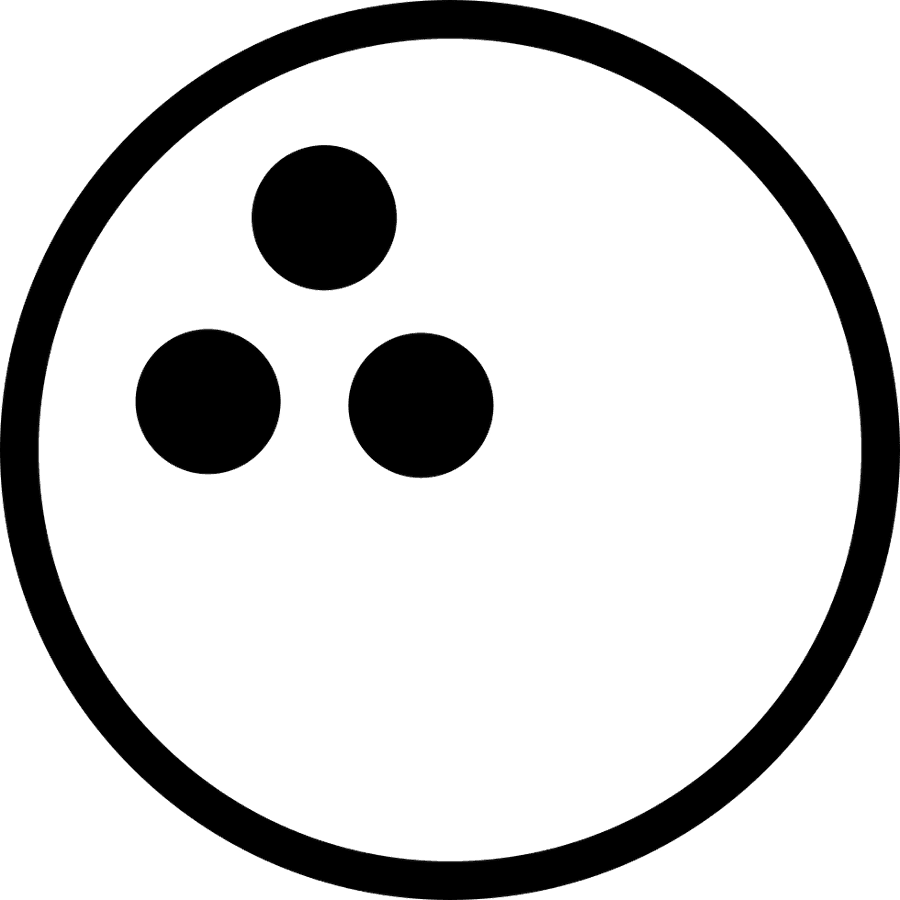
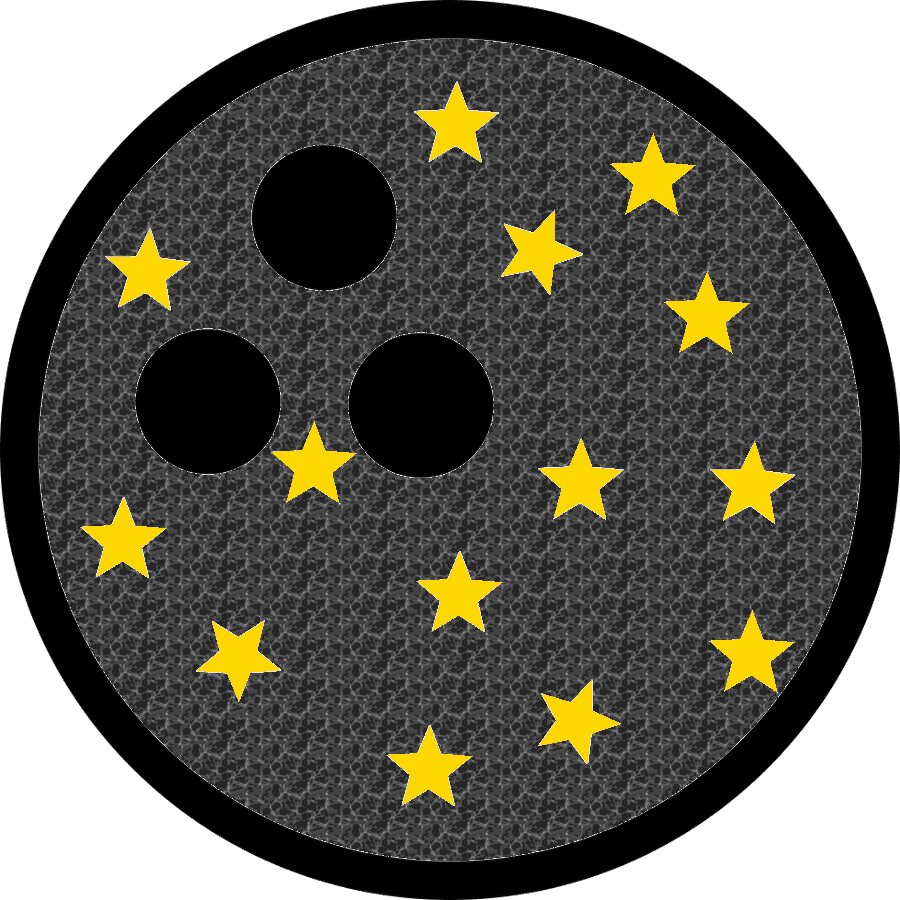
v0.4.0
added save game function and button to save game, changes are saved locally i think, also changed style of golden bowling ball

diff --git a/Anthony Clicker/script.js b/Anthony Clicker/script.js
@@ -1,5 +1,6 @@
 // defines variables 
 let startTime = Date.now();
+let timePlayed = 0; // in seconds
 
 let currentImageIndex = 0;
 let effectsMuted = false;
@@ -34,7 +35,7 @@ let bathroomMultiplier = 1;
 
 // updates ui of current values
 function update() {
-  document.getElementById('farts').innerHTML = "Farts: "+farts.toString();
+  document.getElementById('farts').innerHTML = "Farts: " + farts.toString();
   fps = (getProductionAmount("burrito") + getProductionAmount("toilet") + getProductionAmount("bathroom")) * globalProductionMultiplier;
   document.getElementById('fpc').innerHTML = "Farts per Click: " + fpc;
   document.getElementById('fps').innerHTML = "Farts per Second: " + fps;
@@ -42,15 +43,15 @@ function update() {
   document.getElementById('buyBurritoBtn').innerText = `Buy Burrito (${costOfBurrito} farts)`;  
   document.getElementById('buyToiletBtn').innerText = `Buy Toilet (${costOfToilets} farts)`;
   document.getElementById('buyBathroomBtn').innerText = `Buy Bathroom (${costOfBathroom} farts)`;
-  let currentTime = Date.now();
-  let elapsedTime = currentTime - startTime; // Elapsed time in milliseconds
-  let seconds = Math.floor(elapsedTime / 1000); // Convert to seconds
-  let minutes = Math.floor(seconds / 60); // Convert to minutes
-  let hours = Math.floor(minutes / 60); // Converts to hours
-  seconds = seconds % 60; // Remaining seconds
-  minutes = minutes % 60; // Remaining minutes
-  // Display the elapsed time in minutes and seconds
-  document.getElementById('timePlayed').innerHTML = `Time Wasted: ${hours}h ${minutes}m ${seconds}s`;
+
+  function formatTime(seconds) {
+    const hrs = Math.floor(seconds / 3600);
+    const mins = Math.floor((seconds % 3600) / 60);
+    const secs = seconds % 60;
+    return `${hrs}h ${mins}m ${secs}s`;
+  }
+  
+  document.getElementById('timePlayed').innerHTML = `Time Wasted: ${formatTime(timePlayed)}`;
   checkToiletUnlock();
   checkBathroomUnlock();
 }
@@ -239,7 +240,7 @@ function giveFartBonus() {
 }
 
 function scheduleGoldenBall() {
-  const delay = 180000 + Math.random() * 120000; // for 3 to 5 minutes should be 180000, 120000, atm made it shorter for testing
+  const delay = 180000 + Math.random() * 120000; // for 3 to 5 minutes should be 180000, 120000
   setTimeout(() => {
     spawnGoldenBall();
     scheduleGoldenBall(); // schedule next one after this
@@ -254,6 +255,7 @@ async function rec() {
   await new Promise(resolve => setTimeout(resolve, 1000));
   farts += fps;
   totalFarts += fps;
+  timePlayed += 1; // Increment time played every second
   update();
   requestAnimationFrame(rec);
 }
@@ -278,6 +280,7 @@ function checkBathroomUnlock() {
 rec(); // dont know what this does but it makes it update smoother
 function getBuildingCost(baseCost, amountOwned, multiplier = 1.1) { // Scales by 10%
   return Math.floor(baseCost * Math.pow(multiplier, amountOwned));
+  timePlayed += 1; // Increment time played every second
 }
 
 // increasing price gradually by 2%
@@ -296,13 +299,96 @@ function increasePrice(which) {
     return getBuildingCost(25000, bathroomsBought, 1.02)
   }
 }
+// time saving function for time played
+function formatTime(seconds) {
+  const hrs = Math.floor(seconds / 3600);
+  const mins = Math.floor((seconds % 3600) / 60);
+  const secs = seconds % 60;
+  return `${hrs}h ${mins}m ${secs}s`;
+}
+
+// checks to see if sounds are muted
+document.getElementById('muteButton').addEventListener('click', () => {
+  effectsMuted = !effectsMuted;
+  localStorage.setItem("effectsMuted", JSON.stringify(effectsMuted)); // Persist mute state
+  document.getElementById('muteButton').textContent = effectsMuted ? '🔇 Unmute Farts' : '🔊 Mute Farts';
+});
+
+// save game function, make sure to add variables to this list if you add more
+function saveGame() {
+  const saveData = {
+    effectsMuted,
+    timePlayed,
+    currentImageIndex,
+    farts,
+    totalFarts,
+    fpc,
+    fpcBought,
+    burritosBought,
+    toiletsBought,
+    bathroomsBought,
+    costOfFpc,
+    costOfBurrito,
+    costOfToilets,
+    costOfBathroom,
+    moreIngredients,
+    improvedSeats,
+    globalProductionMultiplier,
+    burritoMultiplier,
+    toiletMultiplier,
+    bathroomMultiplier
+  };
+  localStorage.setItem('fartGameSave', JSON.stringify(saveData));
+  const msg = document.getElementById('saveMessage');
+  msg.style.display = 'block';
+  setTimeout(() => msg.style.display = 'none', 2000); // hides after 2 seconds
+}
+
+function loadGame() {
+  const save = localStorage.getItem('fartGameSave');
+  if (!save) return;
+  const data = JSON.parse(save);
+
+  effectsMuted = data.effectsMuted ?? false;
+  document.getElementById('muteButton').textContent = effectsMuted ? '🔇 Unmute Farts' : '🔊 Mute Farts';
+  timePlayed = data.timePlayed ?? 0;
+  currentImageIndex = data.currentImageIndex ?? currentImageIndex;
+  document.getElementById('clickericon').src = imageSources[currentImageIndex];
+  farts = data.farts ?? farts;
+  totalFarts = data.totalFarts ?? totalFarts;
+  fpc = data.fpc ?? fpc;
+  fpcBought = data.fpcBought ?? fpcBought;
+  burritosBought = data.burritosBought ?? burritosBought;
+  toiletsBought = data.toiletsBought ?? toiletsBought;
+  bathroomsBought = data.bathroomsBought ?? bathroomsBought;
+  costOfFpc = data.costOfFpc ?? costOfFpc;
+  costOfBurrito = data.costOfBurrito ?? costOfBurrito;
+  costOfToilets = data.costOfToilets ?? costOfToilets;
+  costOfBathroom = data.costOfBathroom ?? costOfBathroom;
+  moreIngredients = data.moreIngredients ?? moreIngredients;
+  improvedSeats = data.improvedSeats ?? improvedSeats;
+  globalProductionMultiplier = data.globalProductionMultiplier ?? globalProductionMultiplier;
+  burritoMultiplier = data.burritoMultiplier ?? burritoMultiplier;
+  toiletMultiplier = data.toiletMultiplier ?? toiletMultiplier;
+  bathroomMultiplier = data.bathroomMultiplier ?? bathroomMultiplier;
+
+  update();
+}
 
 
 
 // Call update regularly
 setInterval(update, 1000); // Update every second
+setInterval(saveGame, 30000); // Auto-save every 30 sec
 // Event listeners
 window.addEventListener('DOMContentLoaded', () => {
   document.getElementById('goldenBall').addEventListener('click', activateGoldenBall);
   document.getElementById('clickericon').addEventListener('click', moreU);
+  document.getElementById('muteButton').addEventListener('click', () => {
+    effectsMuted = !effectsMuted;
+    document.getElementById('muteButton').textContent = effectsMuted ? '🔇 Unmute Farts' : '🔊 Mute Farts';
+  });
+  document.getElementById('saveButton').addEventListener('click', saveGame);
 });
+
+loadGame(); // Load save game on startup

diff --git a/Anthony Clicker/anthonyClicker.html b/Anthony Clicker/anthonyClicker.html
@@ -29,9 +29,13 @@
 			  <button class="styled hidden" id="upgradeBurritoBtn" onclick="buyBurritoUpgrade()">Bean Burritos (2500 farts)</button>
 			  <button class="styled hidden" id="upgradeToiletBtn" onclick="buyToiletUpgrade()">Improved Seats (250000 farts)</button>
 			</div>
-		  </div>
+		</div>
+		<button id="saveButton" class="styled"style="position: fixed; bottom: 20px; left: 20px; padding: 10px;">
+			Save Game
+		  </button>
 		<script src="script.js"></script>
 		<div id="bonusText" class="hidden"></div>
+		<div id="saveMessage" style="position: fixed; bottom: 80px; left: 10px; color: black; display: none;">Game Saved!</div>
 		<img src="Pictures/bowlingball.png" id="goldenBall" class="hidden" style="position:absolute; width:60px; height:60px; cursor:pointer;">
 		<audio id="bowlingSound" src="Audio/bowling.mp3"></audio>
 		<audio id="fart1" src="Audio/fart.mp3"></audio>

diff --git a/Anthony Clicker/anthony.css b/Anthony Clicker/anthony.css
@@ -113,10 +113,10 @@ button.styled:hover {
 /* bowling ball text */ 
 #bonusText {
   position: fixed;
-  top: 50%;
+  top: 80%;
   left: 50%;
   transform: translate(-50%, -50%);
-  background: rgba(0, 0, 0, 0.2); /* semi-transparent background */
+  background: rgba(0, 0, 0, 0); /* semi-transparent background */
   padding: 20px;
   border-radius: 10px;
   font-size: 24px;
